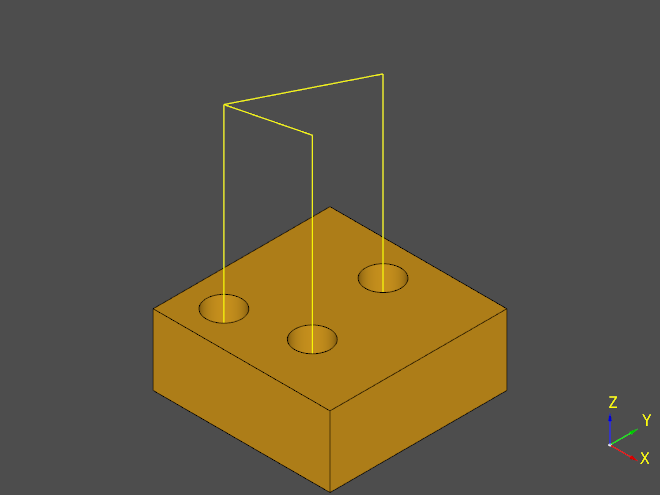
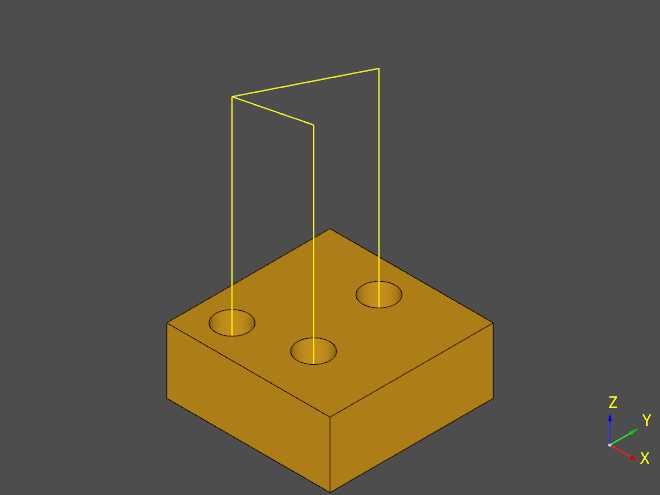
Update docs with adaptive

diff --git a/docs/examples/cq_adaptive.py b/docs/examples/cq_adaptive.py
@@ -1,6 +1,7 @@
 import cadquery as cq
 
 from ocp_freecad_cam import Endmill, Job
+from ocp_freecad_cam.api_util import Expression
 
 wp = (
     cq.Workplane()
@@ -9,13 +10,18 @@ wp = (
     .faces(">Z")
     .workplane()
     .rect(8, 8)
-    .cutBlind(-2)
+    .cutBlind(-1)
     .faces(">Z")
     .rect(10, 2)
-    .cutBlind(-2)
+    .cutBlind(-1)
 )
 
 pocket = wp.faces(">Z[1]")
 top = wp.faces(">Z").workplane()
 tool = Endmill(diameter=1)
-job = Job(top, wp).pocket(pocket, tool=tool, pattern="offset")
+job = Job(top, wp).adaptive(
+    pocket,
+    tool=tool,
+    step_over=50,
+    start_depth=Expression("0 mm"),
+)

diff --git a/docs/examples/generate_image.py b/docs/examples/generate_image.py
@@ -78,3 +78,4 @@ if __name__ == "__main__":
     render_file("cq_pocket.py", ["wp", "job"], "images/cq_pocket.png")
     render_file("cq_drill.py", ["wp", "job"], "images/cq_drill.png")
     render_file("cq_helix.py", ["wp", "job"], "images/cq_helix.png")
+    render_file("cq_adaptive.py", ["wp", "job"], "images/cq_adaptive.png")

diff --git a/docs/examples/cq_profile.py b/docs/examples/cq_profile.py
@@ -8,5 +8,4 @@ top = wp.faces(">Z").workplane()
 profile_shape = wp.faces("<Z")
 
 tool = Endmill(diameter="1 mm")
-job = Job(top, wp)
-job = job.profile(profile_shape, tool)
+job = Job(top, wp).profile(profile_shape, tool)

diff --git a/docs/examples/cq_helix.py b/docs/examples/cq_helix.py
@@ -17,5 +17,4 @@ hole_edges = wp.faces("<Z").objects[0].innerWires()
 
 
 tool = Endmill(diameter="0.5 mm")
-job = Job(top, wp)
-job = job.helix(hole_edges, tool)
+job = Job(top, wp).helix(hole_edges, tool)

diff --git a/docs/examples/cq_drill.py b/docs/examples/cq_drill.py
@@ -17,5 +17,4 @@ hole_edges = wp.faces("<Z").objects[0].innerWires()
 
 
 tool = Drill(diameter="1 mm")
-job = Job(top, wp)
-job = job.drill(hole_edges, tool)
+job = Job(top, wp).drill(hole_edges, tool)

diff --git a/docs/examples/examples.rst b/docs/examples/examples.rst
@@ -58,3 +58,16 @@ Helix
 
 .. image:: images/cq_helix.png
 
+
+Adaptive
+-------------------------
+
+:meth:`ocp_freecad_cam.api.Job.adaptive` creates clearing/profiling tool paths using adaptive algorithms.
+
+.. tabs::
+   .. tab:: CadQuery
+        .. literalinclude :: cq_adaptive.py
+           :language: python
+   .. tab:: Build123d (todo)
+
+.. image:: images/cq_adaptive.png
